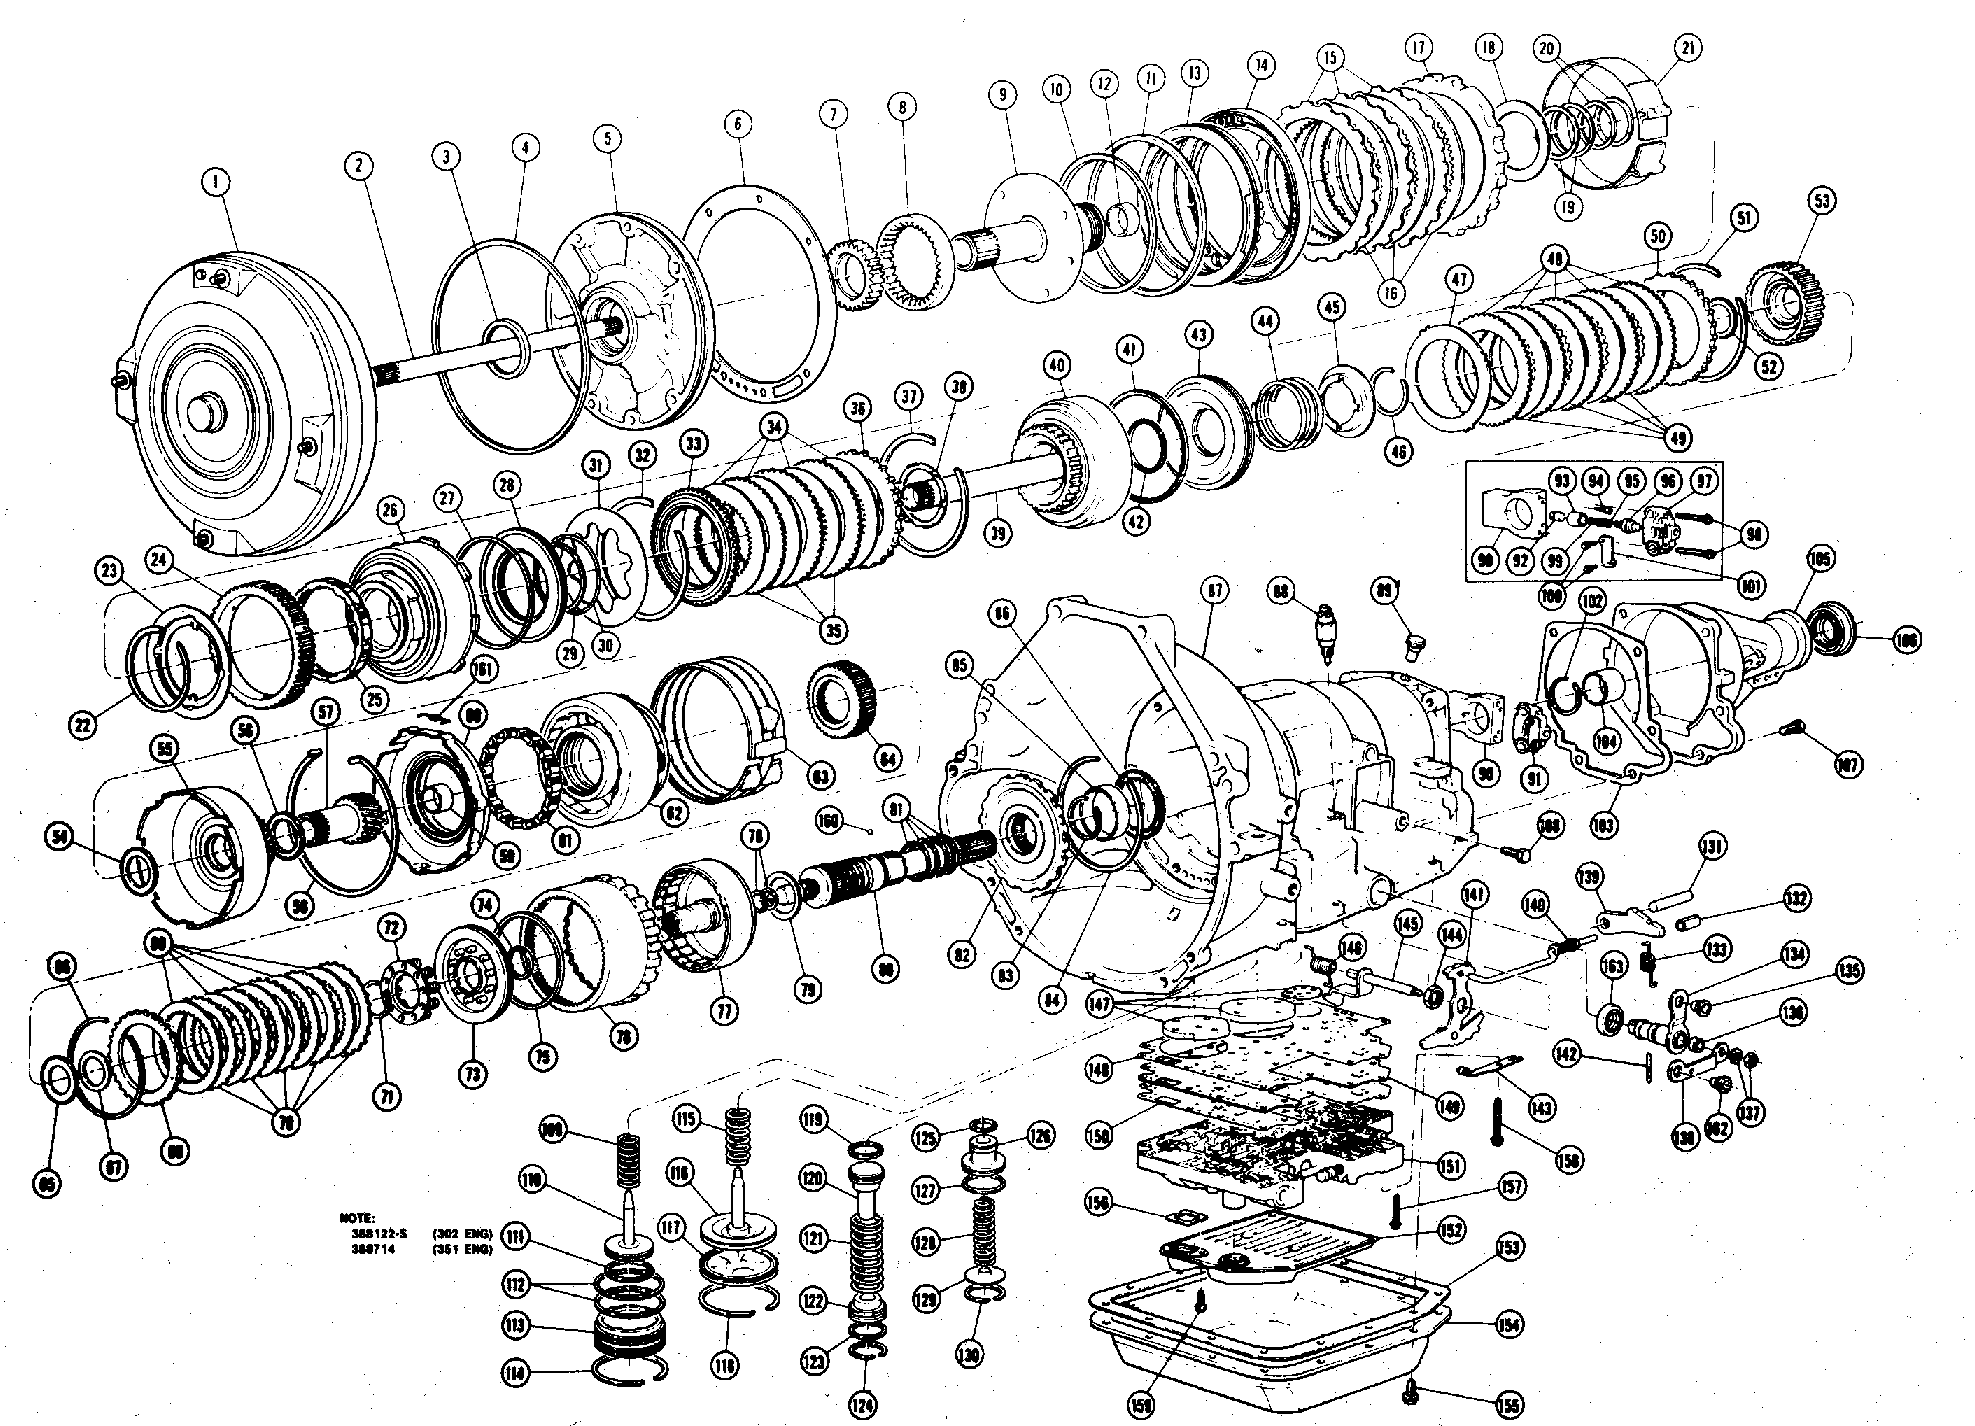
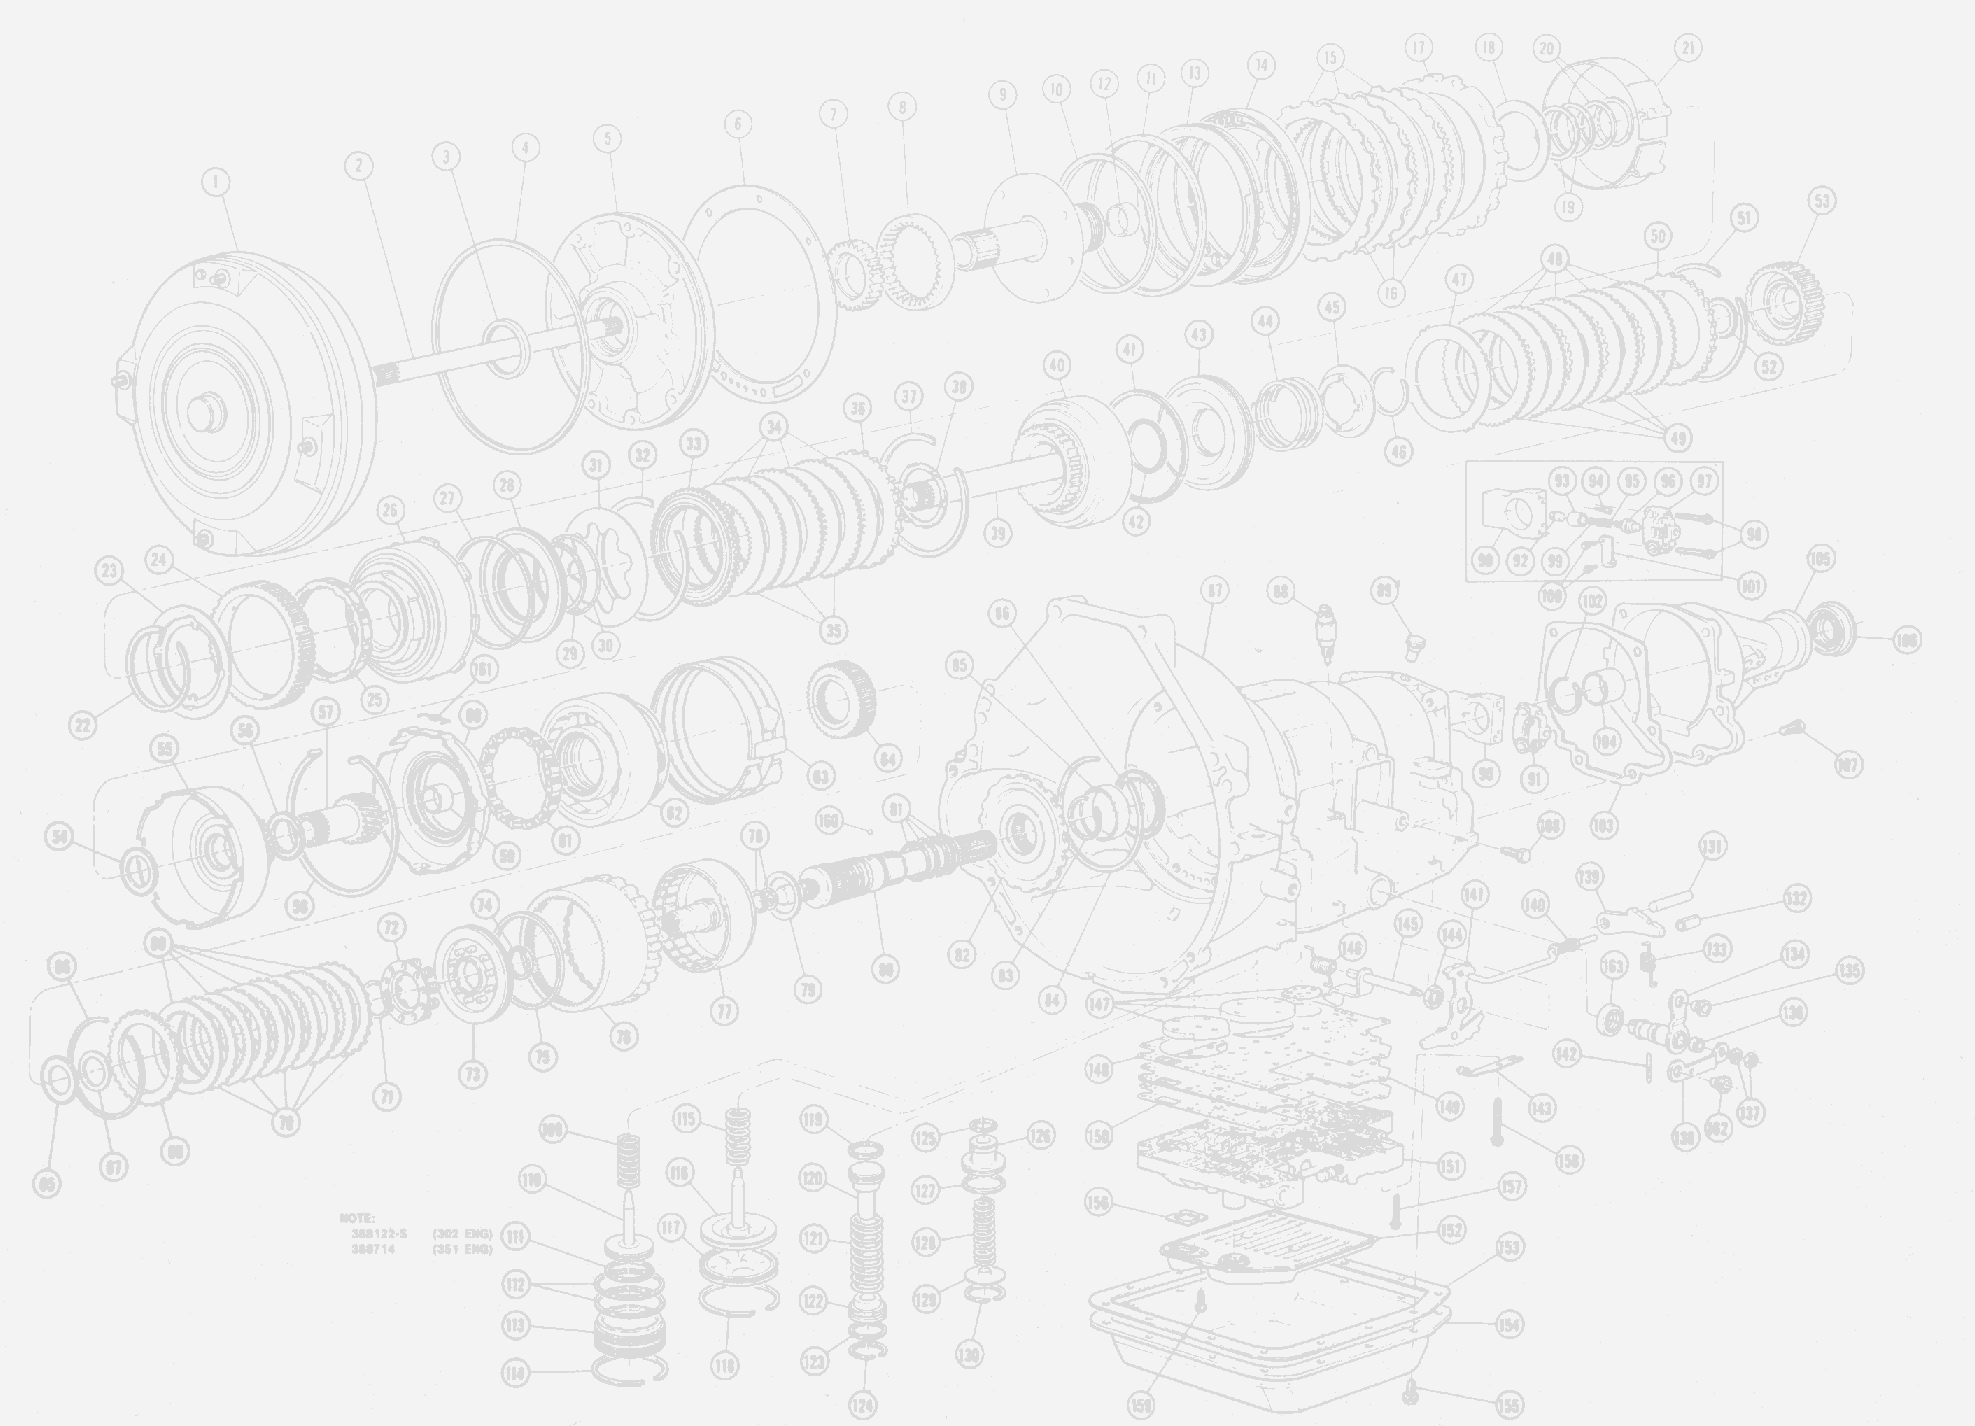
Updated background image, article flexbox alignment

diff --git a/src/sass/style.scss b/src/sass/style.scss
@@ -6,26 +6,24 @@ $main: #263238;
 @mixin shadow($h: 0px, $v: 0px, $b: 3px, $s: 3px, $color: black) {
   box-shadow:         $h $v $b $s $color;
 }
+
+html { 
+  background: url(/resources/img/gearbox.png) no-repeat center center fixed; 
+  -webkit-background-size: cover;
+  -moz-background-size: cover;
+  -o-background-size: cover;
+  background-size: cover;
+}
+
 body {
   font-family: 'Roboto', sans-serif;
   font-size: 16px;
-  background: whitesmoke;
 }
 
 ul {
   list-style: none;
 }
 
-
-.fadeout {
-    position: relative; 
-    bottom: 4em;
-    height: 4em;
-    background: -webkit-linear-gradient(
-        rgba(255, 255, 255, 0) 0%,
-        rgba(255, 255, 255, 1) 100%
-    ); 
-} 
 
 #connect-container {
   z-index: 2;

diff --git a/src/sass/main.scss b/src/sass/main.scss
@@ -8,39 +8,16 @@ body {
   justify-content: center;
 }
 
-#background-container {
-  z-index: -1;
-  position: fixed;
-  left: -25px;
-  top: -95px;
-  opacity: 0.075;
-
-}
-
 #main-container {
   padding: 70px 5%;
   width: 100%;
   max-width: 1000px;
-
+  min-width: 300px;
   
   @media (max-width: 900px) {
     padding: 0px 0px;
     height: calc(100vh - 60px);
     overflow-y: auto;
-  }
-
-}
-
-#article-container {
-  overflow-y: auto;
-  padding: 0px 25px;
-  bottom: 25px;
-  overflow-y: auto;
-  display: flex;
-  flex-wrap: wrap;
-
-  .entry-item > div > div {
-    cursor: pointer;
   }
 
 }

diff --git a/src/sass/articles.scss b/src/sass/articles.scss
@@ -9,10 +9,23 @@
   justify-content: center;
 }
 
+
+
+#article-container {
+  overflow-y: auto;
+  padding: 0px 25px 25px 25px;
+  bottom: 25px;
+  overflow-y: auto;
+  display: flex;
+  flex-wrap: wrap;
+}
+
+
 .article-month-container {
   flex: 1 1 400px;
   height: 100%;
-  margin: 15px 15px !important;
+  max-width: 45% !important;
+  margin: 0px 15px !important;
   overflow-x: hidden;
   box-shadow: rgba(0, 0, 0, 0.117647) 0px 1px 6px, rgba(0, 0, 0, 0.117647) 0px 1px 4px;
 

diff --git a/src/components/application.js b/src/components/application.js
@@ -224,7 +224,6 @@ export default class Application extends Component {
     const adminStyle = { width: '100%', maxWidth: '100%' };
     return (
       <div id="app-container">
-        <div id="background-container" ><img src="/resources/img/gearbox.png" /></div>
         <ConnectBar />
         <div id="main-container" style={this.props.params.title === 'admin' ? adminStyle : {}} >
           <Navbar

diff --git a/src/sass/navbar.scss b/src/sass/navbar.scss
@@ -1,7 +1,6 @@
 @import 'style';
 
 #navbar-container {
-  max-width: 100%;
   display: flex;
   justify-content: center;
   margin-bottom: 15px;
